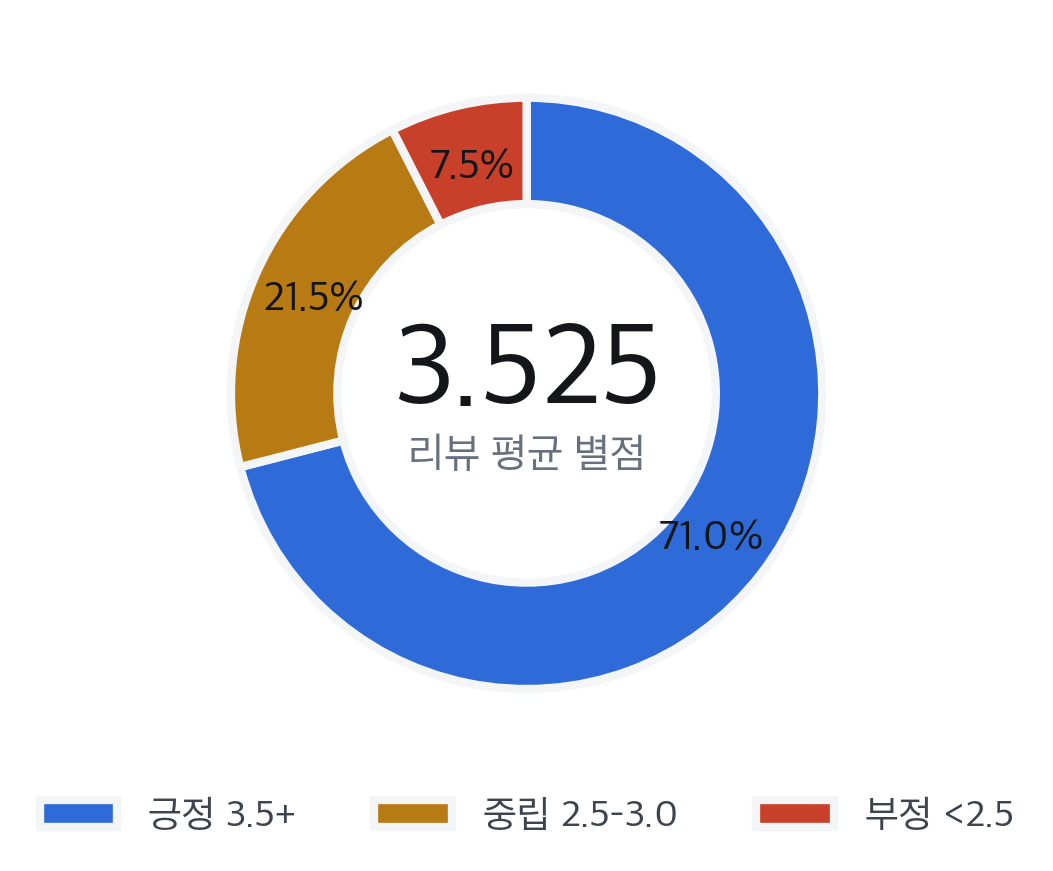
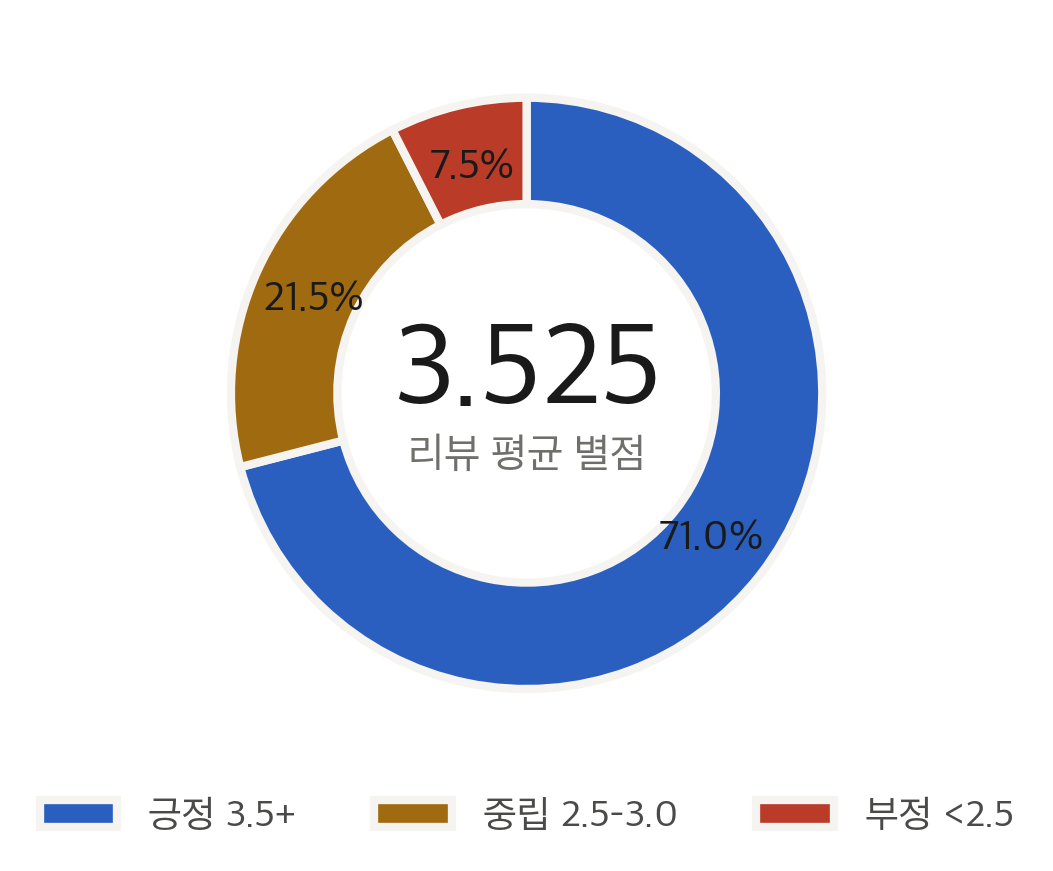
Choose a warm neutral paper background for week-05 slides
- Background #f5f4f1 (L*~95, near-neutral) so headline and data colours read true
- Ink #1a1a1a for ~16:1 body contrast on projectors
- Hide the film strips, grain and vignette on content slides; cover keeps them
- Regenerate charts on the paper palette

Changed region(s): [[0.2127, 0.093, 0.7901, 0.806], [0.0304, 0.899, 0.1216, 0.961]]

diff --git a/docs/week-05-no-other-choice-reviews/index.html b/docs/week-05-no-other-choice-reviews/index.html
@@ -51,17 +51,16 @@
   .hint{position:fixed;bottom:14px;left:50%;transform:translateX(-50%);z-index:40;font-family:var(--mono);font-size:12px;color:var(--muted);letter-spacing:.12em}
 
   /* light chrome while a content slide is active */
-  .film,.topbar,.bottombar{transition:background .45s ease,color .45s ease,border-color .45s ease}
-  body.light .topbar{color:#66707e;border-bottom-color:rgba(20,22,26,.14);background:linear-gradient(#f4f5f7 70%,rgba(244,245,247,0))}
-  body.light .topbar .dot{background:#c8402a}
-  body.light .bottombar{color:#66707e}
-  body.light .counter b{color:#14161a}
-  body.light .hint{color:#66707e}
-  body.light .film{background:#e8ebf0;border-color:rgba(20,22,26,.07)}
-  body.light .film::before{background-image:repeating-linear-gradient(to bottom,rgba(20,22,26,.16) 0 14px,transparent 14px 38px)}
-  body.light .progress{background:linear-gradient(90deg,#c08a2f,#c8402a)}
-  body.light::before{opacity:.04;mix-blend-mode:multiply}
-  body.light::after{background:radial-gradient(130% 95% at 50% 40%,transparent 78%,rgba(15,23,42,.05) 100%)}
+  .film,.topbar,.bottombar{transition:background .45s ease,color .45s ease,border-color .45s ease,opacity .45s ease}
+  body.light .topbar{color:#6f6f6b;border-bottom-color:rgba(26,26,26,.13);background:linear-gradient(#f5f4f1 70%,rgba(245,244,241,0))}
+  body.light .topbar .dot{background:#b93b28}
+  body.light .bottombar{color:#6f6f6b}
+  body.light .counter b{color:#1a1a1a}
+  body.light .hint{color:#6f6f6b}
+  body.light .film{opacity:0}
+  body.light .progress{background:linear-gradient(90deg,#c08a2f,#b93b28)}
+  body.light::before{opacity:.03;mix-blend-mode:multiply}
+  body.light::after{background:none}
 
 
   .stage{position:absolute;inset:0}
@@ -69,11 +68,11 @@
     padding:70px calc(var(--strip) + 4.5vw) 66px;opacity:0;visibility:hidden;overflow:hidden;transition:opacity .5s ease,visibility .5s}
   .slide.active{opacity:1;visibility:visible}
   /* light slides (2–16) — cover keeps the dark poster */
-  .slide:not(.poster-bg){background:#f4f5f7;color:var(--ink);
-    --ink:#14161a; --ink-soft:#3e444e; --muted:#66707e; --line:rgba(20,22,26,.14);
-    --panel:#ffffff; --panel-2:#edeff3;
-    --accent:#a8690c; --accent-solid:#e8b04b;
-    --blue:#2f6bd8; --red:#c8402a;}
+  .slide:not(.poster-bg){background:#f5f4f1;color:var(--ink);
+    --ink:#1a1a1a; --ink-soft:#4a4a48; --muted:#6f6f6b; --line:rgba(26,26,26,.13);
+    --panel:#ffffff; --panel-2:#efede8;
+    --accent:#a06a10; --accent-solid:#e8b04b;
+    --blue:#2b5fbf; --red:#b93b28;}
   .slide:not(.poster-bg) .pcard{box-shadow:0 1px 2px rgba(16,24,40,.06)}
   .wrap{max-width:1360px;width:100%;margin:0 auto}
   [data-rise]{opacity:0;transform:translateY(24px)}
@@ -143,7 +142,7 @@
   .figcap{margin-top:10px;text-align:center;font-family:var(--mono);font-size:12.5px;letter-spacing:.04em;color:var(--muted)}
   .poster-figure{margin:0;justify-self:end;align-self:center}
   .poster-figure img{display:block;height:min(70vh,660px);width:auto;border-radius:5px;
-    box-shadow:0 24px 48px -20px rgba(15,23,42,.35),0 2px 8px rgba(15,23,42,.12)}
+    box-shadow:0 22px 44px -20px rgba(30,26,18,.38),0 2px 8px rgba(30,26,18,.12)}
   .split{display:grid;grid-template-columns:.92fr 1.08fr;gap:4vw;align-items:center}
   .split.rev{grid-template-columns:1.08fr .92fr}
 

diff --git a/week-05-no-other-choice-reviews/make_charts.py b/week-05-no-other-choice-reviews/make_charts.py
@@ -22,16 +22,16 @@ ARGV = [a for a in sys.argv if a != "--light"]
 LIGHT = len(ARGV) != len(sys.argv)
 
 if LIGHT:
-    BG = "#f4f5f7"
-    INK = "#14161a"
-    INK_SOFT = "#3e444e"
-    MUTED = "#66707e"
-    LINE = "#d7dbe2"
-    GOLD = "#b87a12"
-    BLUE = "#2f6bd8"
-    RED = "#c8402a"
-    ORANGE = "#c9773a"
-    BAR_GRAY = "#d5dae4"
+    BG = "#f5f4f1"
+    INK = "#1a1a1a"
+    INK_SOFT = "#4a4a48"
+    MUTED = "#6f6f6b"
+    LINE = "#dcdad4"
+    GOLD = "#a06a10"
+    BLUE = "#2b5fbf"
+    RED = "#b93b28"
+    ORANGE = "#b5702f"
+    BAR_GRAY = "#d8d5cd"
 else:
     BG = "#101a2b"
     INK = "#ede9df"
